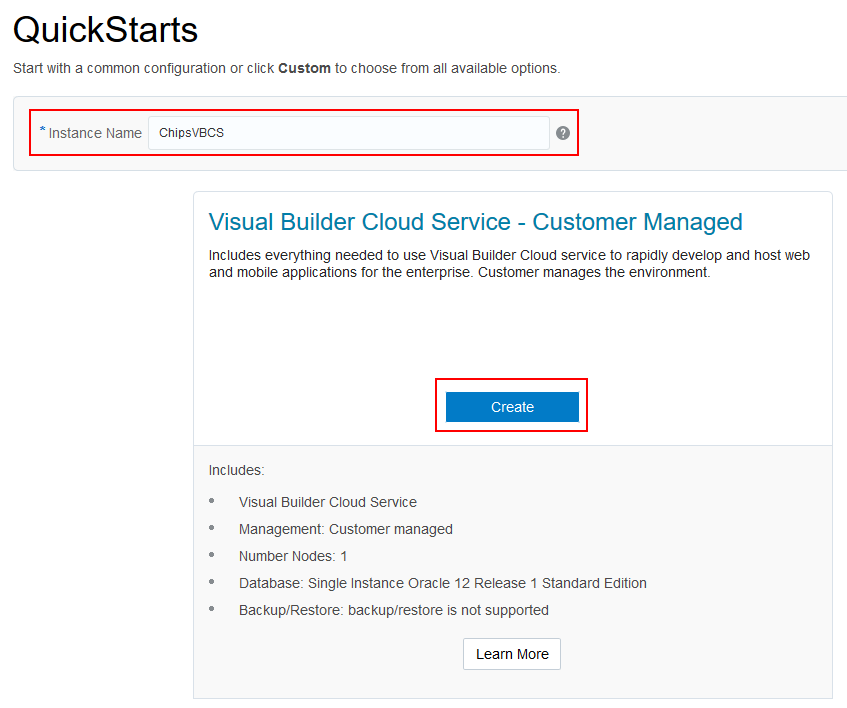
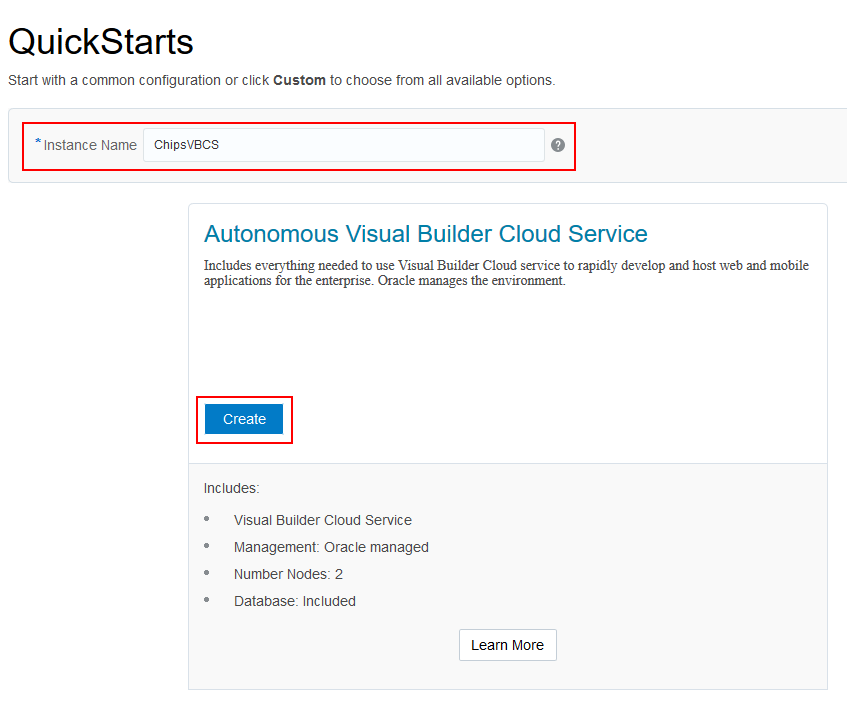
With fresh trial updateing screens to provision AVBCS

diff --git a/LabGuide100.md b/LabGuide100.md
@@ -45,7 +45,7 @@ This is the first of several labs that are part of the **Oracle Autonomous Visua
 
 ![](images/100/show_dash_vb.png)
 
-- Your should see the following before proceeding to the next step.
+- You should see the following before proceeding to the next step.
 
 ![](images/100/LabGuide100-80c36c4c.png)
 
@@ -60,7 +60,7 @@ This is the first of several labs that are part of the **Oracle Autonomous Visua
 
 ![](images/100/LabGuide100-cb88530c.png)
 
-- Fill out the form below selecting **Javascript** and **Web App**. Then press the **Create Visual Builder Instance** button.
+- Fill out the form below selecting **Javascript** and **Web App**. Then press the **Create Autonomous Visual Builder Instance** button.
 
 ![](images/100/LabGuide100-6fa626cd.png)
 
@@ -68,7 +68,11 @@ This is the first of several labs that are part of the **Oracle Autonomous Visua
 
 ![](images/100/LabGuide100-a793d2af.png)
 
-- Download your public/private keys when prompted by clicking the **Download** link on the prompt.
+- You will see the following screen once your request is submitted. Press the refresh button every few minutes to see if your instance is provisioned.
+
+![](images/100/LabGuide100-fcc49616.png)
+
+-Q/A Paused here
 
 ![](images/100/LabGuide100-f7898cb7.png)
 
